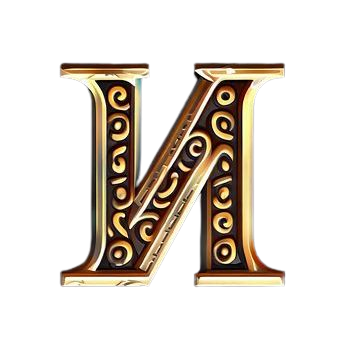
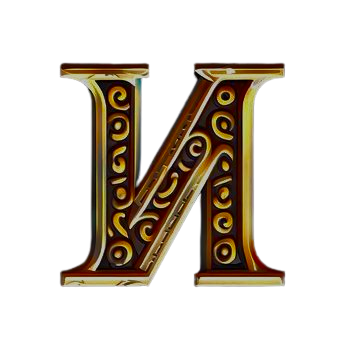
gitignore, tsconfig, uninstall unnecessary dependencies, devdependies

Changed region(s): [[0.1709, 0.1709, 0.8262, 0.8262]]

diff --git a/src/code/common/assets.ts b/src/code/common/assets.ts
@@ -7,15 +7,15 @@ export const manifest: ResolverManifest = {
             assets: {
                 1: "assets/images/symbols/symbol1.png",     // princess
                 2: "assets/images/symbols/symbol2.png",     // warrior
-                3: "assets/images/symbols/symbol3_darker.png",     // и
+                3: "assets/images/symbols/symbol3.png",     // и
                 4: "assets/images/symbols/symbol4.png",     // jem
                 5: "assets/images/symbols/symbol5.png",     // axe
-                6: "assets/images/symbols/symbol6_darker2.png",     // P
+                6: "assets/images/symbols/symbol6.png",     // P
                 7: "assets/images/symbols/symbol7.png",     // horns
                 8: "assets/images/symbols/symbol8.png",     // я
-                9: "assets/images/symbols/symbol9_darker4.png",     // T
-                10: "assets/images/symbols/symbol10_blue.png",   // X
-                11: "assets/images/symbols/symbol11_darker2.png",   // C
+                9: "assets/images/symbols/symbol9.png",     // T
+                10: "assets/images/symbols/symbol10.png",   // X
+                11: "assets/images/symbols/symbol11.png",   // C
                 12: "assets/images/symbols/symbol12.png",   // king
                 13: "assets/images/symbols/symbol13.png",   // H
                 14: "assets/images/symbols/symbol14.png",   // emerald
@@ -28,7 +28,7 @@ export const manifest: ResolverManifest = {
             name: "uiBundle",
             assets: {
                 "spinButton": "assets/images/ui/spin.png",
-                "spinButtonHover": "assets/images/ui/spin_hover2.png",
+                "spinButtonHover": "assets/images/ui/spin_hover3.png",
                 "startButton": "assets/images/ui/start.jpg",
             }
         },

diff --git a/src/code/components/slots/symbol.ts b/src/code/components/slots/symbol.ts
@@ -4,12 +4,13 @@ import { SymbolState } from "../../common/types";
 import { gsap } from "gsap";
 import { CustomEase } from "gsap/all";
 import { pulseSizeMultiplier, baseTweenDuration, symbolIndexMultiplier, standardSymbolSize } from "../../common/consts";
+import { ReelInterface } from "../../common/types";
 
 export class Symbol extends Sprite {
     private readonly symbolSize: number = 0;
     private readonly endPoint: number = 500;
     private velocity: number = 0;
-    private readonly reel: Reel;
+    private readonly reel: ReelInterface;
 
     private currentState: SymbolState = SymbolState.Idle;
     private symbolIndex: number;

diff --git a/src/code/components/slots/reel.ts b/src/code/components/slots/reel.ts
@@ -4,8 +4,9 @@ import { SymbolBundle, SymbolReference } from "../../common/types";
 import { ReelState, SymbolState, SlotMachineState } from "../../common/types";
 import { multiplier, xIndexMultiplier, baseVelocity } from "../../common/consts";
 import { SlotMachine } from "./slotMachine";
+import { ReelInterface } from "../../common/types";
 
-export class Reel extends Container {
+export class Reel extends Container implements ReelInterface {
     private readonly reelLength: number;
     private readonly symbolSize: number;
     private readonly reelXIndex: number;

diff --git a/src/code/common/types.ts b/src/code/common/types.ts
@@ -130,3 +130,13 @@ export type UIData = number;
 //     updateReels(delta: number): void;
 //     State: SlotMachineState;
 // }
+
+export interface ReelInterface {
+    updateSymbols(delta: number): void;
+    highlightWinningSymbols(paylineLength: number): void;
+    spin(finalSymbols: SymbolReference[]): void;
+    getRandomTexture(): Texture;
+    incrementSymbolIndex(): number;
+    get FinalSymbol(): Texture;
+    get ReelLength(): number;
+}

diff --git a/src/code/components/slots/slotMachine.ts b/src/code/components/slots/slotMachine.ts
@@ -243,10 +243,6 @@ export class SlotMachine extends Container implements UIObserver {
 
 // TODO: sort out web.yml
 
-// remove dependency on firework by making firework (or a firework manager class) a slotmachine observer? or a WinManager
-
-// types.d.ts
-
 // think about reel and symbol responsibilities
 
 // flexible bet?
